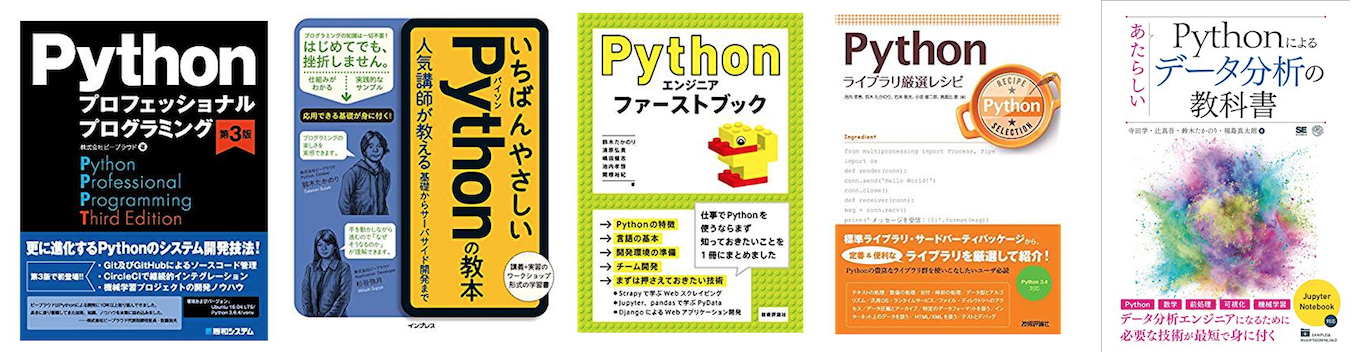
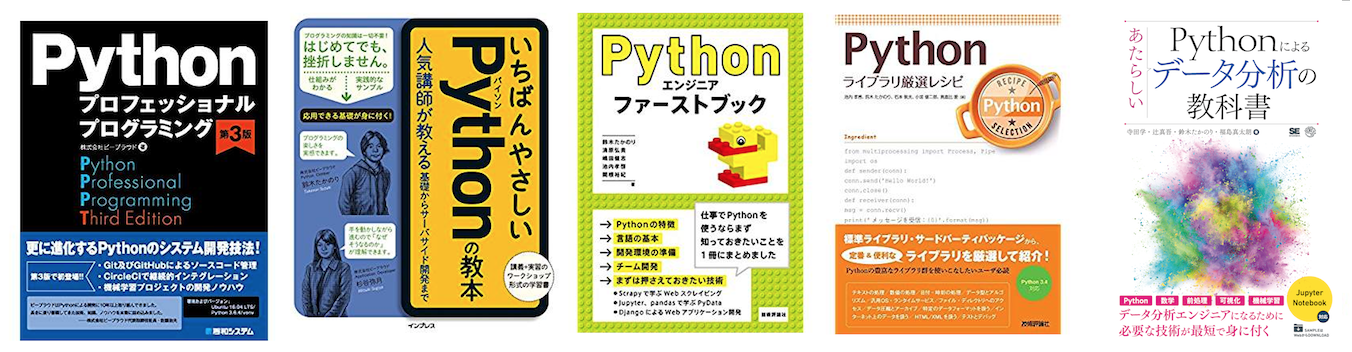
update pydata textbook cover image

Changed region(s): [[0.8077, 0.0312, 0.9941, 0.9688]]

diff --git a/about-takanory/PITCHME.md b/about-takanory/PITCHME.md
@@ -105,6 +105,6 @@
 
 ### Pythonでデータ分析をしたい
 
-![あたらしいPythonによるデータ分析の教科書](assets/images/pydatatext.jpg)
+![Pythonによるあたらしいデータ分析の教科書](assets/images/pydatatext.png)
 
-[あたらしいPythonによるデータ分析の教科書](https://www.seshop.com/product/detail/22028)
+[Pythonによるあたらしいデータ分析の教科書](https://www.seshop.com/product/detail/22028)
